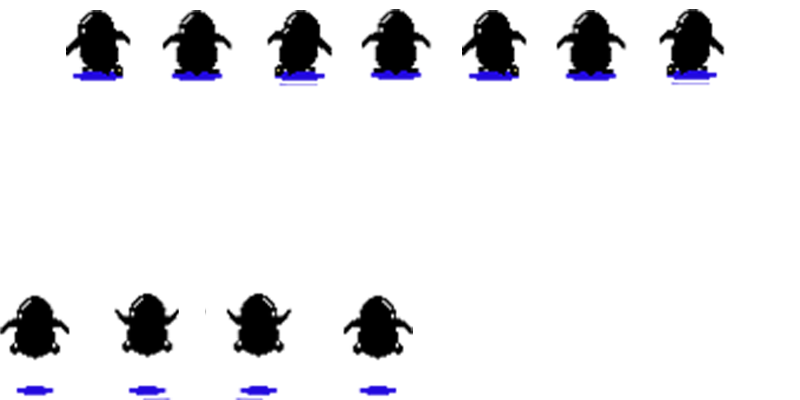
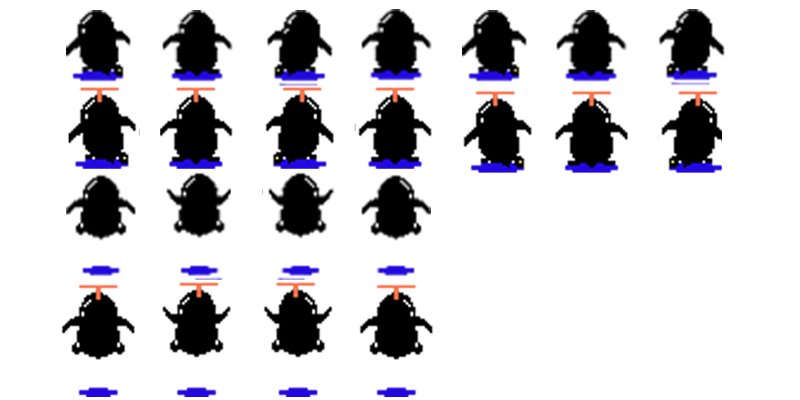
2015182043
프로젝트 펭귄 점프 및 배경 작업시작

diff --git a/project/penguin.py b/project/penguin.py
@@ -1,19 +1,36 @@
 from pico2d import *
-
+import  game_framework
 import  game_world
 
+#Penguin Run Speed
+PIXEL_PER_METER = (10.0 / 0.3)
+RUN_SPEED_KMPH = 20.0
+RUN_SPEED_MPM = (RUN_SPEED_KMPH * 1000.0 / 60.0)
+RUN_SPEED_MPS = (RUN_SPEED_MPM / 60.0)
+RUN_SPEED_PPS = (RUN_SPEED_MPS * PIXEL_PER_METER)
+
+#Penguin action Speed
+TIME_PER_ACTION = 0.5
+ACTION_PER_TIME = 1.0 / TIME_PER_ACTION
+FRAMES_PER_ACTION = 7
+
 # Penguin Event
-RIGHT_DOWN, LEFT_DOWN, RIGHT_UP, LEFT_UP, SPACE= range(5)
+RIGHT_DOWN, LEFT_DOWN, RIGHT_UP, LEFT_UP, SPACE_DOWN, SPACE_UP, JUMP_TIMER, No_Key= range(8)
 
 key_event_table = {
     (SDL_KEYDOWN, SDLK_RIGHT): RIGHT_DOWN,
     (SDL_KEYDOWN, SDLK_LEFT): LEFT_DOWN,
     (SDL_KEYUP, SDLK_RIGHT): RIGHT_UP,
     (SDL_KEYUP, SDLK_LEFT): LEFT_UP,
-    (SDL_KEYDOWN, SDLK_SPACE): SPACE
+    (SDL_KEYDOWN, SDLK_SPACE): SPACE_DOWN,
+    (SDL_KEYUP, SDLK_SPACE): SPACE_UP,
+    (SDL_KEYDOWN, SDLK_SPACE, SDLK_RIGHT) : No_Key,
+    (SDL_KEYDOWN, SDLK_SPACE, SDLK_LEFT) : No_Key,
+    (SDL_KEYUP, SDLK_SPACE, SDLK_RIGHT) : No_Key,
+    (SDL_KEYUP, SDLK_SPACE, SDLK_LEFT) : No_Key
 }
 
-#Pengguin States
+#Penguin States
 
 class IdleState:
 
@@ -30,16 +47,15 @@ class IdleState:
 
     @staticmethod
     def exit(penguin, event):
-        if event == SPACE:
-            pass
+        pass
 
     @staticmethod
     def do(penguin):
-        penguin.frame = (penguin.frame + 1) % 7
+        penguin.frame = (penguin.frame + FRAMES_PER_ACTION * ACTION_PER_TIME * game_framework.frame_time) % 7
 
     @staticmethod
     def draw(penguin):
-        penguin.image.clip_draw(penguin.frame * 100 + 50, 300, 100, 100, penguin.x, penguin.y)
+        penguin.image.clip_draw(int(penguin.frame) * 100 + 50, 300, 100, 100, penguin.x, penguin.y)
 
 
 
@@ -48,36 +64,49 @@ class RunState:
 
     @staticmethod
     def enter(penguin, event):
-        def enter(penguin, event):
-            if event == RIGHT_DOWN:
-                penguin.velocity += 1
-            elif event == LEFT_DOWN:
-                penguin.velocity -= 1
-            elif event == RIGHT_UP:
-                penguin.velocity -= 1
-            elif event == LEFT_UP:
-                penguin.velocity += 1
-            penguin.dir = penguin.velocity
+        if event == RIGHT_DOWN:
+            penguin.velocity += 1
+        elif event == LEFT_DOWN:
+            penguin.velocity -= 1
+        elif event == RIGHT_UP:
+            penguin.velocity -= 1
+        elif event == LEFT_UP:
+            penguin.velocity += 1
+        penguin.dir = penguin.velocity
 
     @staticmethod
     def exit(penguin, event):
-        if event == SPACE:
-            pass
+        pass
 
     @staticmethod
     def do(penguin):
-        penguin.frame = (penguin.frame + 1) % 7
-        penguin.x = clamp(25, penguin.x, 1600 - 25)
+        penguin.frame = (penguin.frame + FRAMES_PER_ACTION * ACTION_PER_TIME * game_framework.frame_time) % 7
+        penguin.x += penguin.velocity
+        penguin.x = clamp(25, penguin.x, 800 - 25)
 
     @staticmethod
     def draw(penguin):
-        penguin.image.clip_draw(penguin.frame * 100 + 50, 300, 100, 100, penguin.x, penguin.y)
+        penguin.image.clip_draw(int(penguin.frame) * 100 + 50, 300, 100, 100, penguin.x, penguin.y)
 
+class JumpState:
+    def enter(penguin, event):
+        penguin.Jump_Timer = get_time()
 
+    def exit(penguin, event):
+        pass
+
+    def do(penguin):
+        penguin.frame = (penguin.frame + FRAMES_PER_ACTION * ACTION_PER_TIME * game_framework.frame_time) % 4
+        if (get_time() - penguin.Jump_Timer) >= 1:
+            penguin.add_event(JUMP_TIMER)
+
+    def draw(penguin):
+        penguin.image.clip_draw(int(penguin.frame) * 100 + 50, 100, 100, 100, penguin.x, penguin.y)
 
 next_state_table = {
-    IdleState: {RIGHT_UP: RunState, LEFT_UP: RunState, RIGHT_DOWN: RunState, LEFT_DOWN: RunState},
-    RunState: {RIGHT_UP: IdleState, LEFT_UP: IdleState, LEFT_DOWN: IdleState, RIGHT_DOWN: IdleState}
+    IdleState: {RIGHT_UP: RunState, LEFT_UP: RunState, RIGHT_DOWN: RunState, LEFT_DOWN: RunState, SPACE_DOWN: JumpState, SPACE_UP: IdleState},
+    RunState: {RIGHT_UP: IdleState, LEFT_UP: IdleState, RIGHT_DOWN: IdleState, LEFT_DOWN: IdleState, SPACE_DOWN: JumpState, SPACE_UP: RunState},
+    JumpState: {RIGHT_UP: RunState, LEFT_UP: RunState, RIGHT_DOWN: RunState, LEFT_DOWN: RunState, JUMP_TIMER: IdleState, SPACE_DOWN: JumpState, SPACE_UP: JumpState}
 }
 
 
@@ -90,69 +119,26 @@ class Penguin:
         self.cur_state = IdleState
         self.dir = 1
         self.velocity = 0
-        self.enter_state[IDLE](self)
-
-
-
-    # IDLE state functions
-    def enter_IDLE(self):
         self.frame = 0
-
-    def exit_IDLE(self):
-        pass
-
-    def do_IDLE(self):
-        self.frame = (self.frame + 1) % 7
-
-    def draw_IDLE(self):
-        self.image.clip_draw(self.frame * 100 + 50, 300, 100, 100, self.x, self.y)
-
-    # RUN state functions
-    def enter_RUN(self):
-        self.frame = 0
-        self.dir = self.velocity
-
-    def exit_RUN(self):
-        pass
-
-    def do_RUN(self):
-        self.frame = (self.frame + 1) % 7
-        self.x += self.velocity
-        self.x = clamp(25, self.x, 800-25)
-
-    def draw_RUN(self):
-        self.image.clip_draw(self.frame * 100 + 50, 300, 100, 100, self.x, self.y)
+        self.cur_state.enter(self, None)
 
 
     def add_event(self, event):
         self.event_que.insert(0, event)
 
-    def change_state(self, state):
-        self.exit_state[self.cur_state](self)
-        self.enter_state[state](self)
-        self.cur_state = state
-
     def update(self):
-        self.do_state[self.cur_state](self)
+        self.cur_state.do(self)
         if len(self.event_que) > 0:
             event = self.event_que.pop()
-            self.change_state(next_state_table[self.cur_state][event])
-
+            self.cur_state.exit(self, event)
+            self.cur_state = next_state_table[self.cur_state][event]
+            self.cur_state.enter(self, event)
 
     def draw(self):
-        self.draw_state[self.cur_state](self)
+        self.cur_state.draw(self)
 
 
     def handle_event(self, event):
         if (event.type, event.key) in key_event_table:
             key_event = key_event_table[(event.type, event.key)]
-            if key_event == RIGHT_DOWN:
-                self.velocity += 1
-            elif key_event == LEFT_DOWN:
-                self.velocity -= 1
-            elif key_event == RIGHT_UP:
-                self.velocity -= 1
-            elif key_event == LEFT_UP:
-                self.velocity += 1
             self.add_event(key_event)
-

diff --git a/project/main_state.py b/project/main_state.py
@@ -5,7 +5,7 @@ import os
 from pico2d import *
 
 import game_framework
-import title_state
+import game_world
 
 from background import Background
 from penguin import Penguin
@@ -21,12 +21,12 @@ def enter():
     global penguin, background
     penguin = Penguin()
     background = Background()
+    game_world.add_object(background, 0)
+    game_world.add_object(penguin, 1)
 
 
 def exit():
-    global penguin, background
-    del penguin
-    del background
+    game_world.clear()
 
 
 
@@ -43,20 +43,19 @@ def handle_events():
     for event in events:
         if event.type == SDL_QUIT:
             game_framework.quit()
-        elif(event.type, event.key) == (SDL_KEYDOWN, SDLK_ESCAPE):
-            game_framework.change_state(title_state)
         else:
             penguin.handle_event(event)
 
 
 
 def update():
-    penguin.update()
+    for game_object in game_world.all_objects():
+        game_object.update()
 
 def draw():
     clear_canvas()
-    background.draw()
-    penguin.draw()
+    for game_object in game_world.all_objects():
+        game_object.draw()
     update_canvas()
 
 

diff --git a/project/background.py b/project/background.py
@@ -1,10 +1,19 @@
 from pico2d import *
 
-class Background:
-    image = None
 
+class Background:
     def __init__(self):
-        self.image = load_image('project_background.png')
+        self.image_draw = 0
+        if self.image_draw == 0:
+            self.image = load_image('project_background0.png')
+        elif self.image_draw == 1:
+            self.image = load_image('project_background1.png')
+        elif self.image_draw == 2:
+            self.image = load_image('project_background2.png')
+
+    def update(self):
+        ++self.image_draw
+        self.image_draw = (self.image_draw) / 4
 
     def draw(self):
         self.image.clip_draw(0, 0, 800, 600, 400, 300)

diff --git a/project/game_framework.py b/project/game_framework.py
@@ -82,15 +82,27 @@ def quit():
     running = False
 
 
+
+import time
+frame_time = 0.0
+
 def run(start_state):
     global running, stack
     running = True
     stack = [start_state]
     start_state.enter()
+
+    global frame_time
+    current_time = time.time()
     while (running):
         stack[-1].handle_events()
         stack[-1].update()
         stack[-1].draw()
+        frame_time = time.time() - current_time
+        frame_rate = 1.0 / frame_time
+        current_time += frame_time
+
+
     # repeatedly delete the top of the stack
     while (len(stack) > 0):
         stack[-1].exit()

diff --git a/project/start_state.py b/project/start_state.py
@@ -1,7 +1,6 @@
 import game_framework
 from pico2d import *
-import title_state
-
+import main_state
 
 name = "StartState"
 image = None
@@ -22,7 +21,7 @@ def update():
 
     if(logo_time > 1.0):
         logo_time = 0
-        game_framework.change_state(title_state)
+        game_framework.change_state(main_state)
     delay(0.01)
     logo_time += 0.01
 
